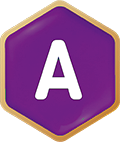
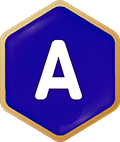
Add files via upload

diff --git a/poll.html b/poll.html
@@ -141,16 +141,18 @@
   display: flex;
   flex-direction: column;
   align-items: flex-start;
+  text-align: center;
   padding: 10px;
   background: url("round-images/bg-a-round1.jpg") no-repeat center center;
-  background-size: cover;   /* scale to fill */
-  border-radius: 12px;      /* optional rounded corners */
+  background-size: cover;
+  border-radius: 12px;
 }
 
 .poll-right {
   display: flex;
   flex-direction: column;
   align-items: flex-end;
+  text-align: center;
   padding: 10px;
   background: url("round-images/bg-b-round1.jpg") no-repeat center center;
   background-size: cover;
@@ -167,26 +169,28 @@
   margin-top: 8px;
   font-size: 1.1rem;
   font-weight: bold;
+  width: 100%;
+  text-align: center;
 }
 
 .question-text {
   font-size: 1rem;
   font-weight: bold;
-  padding: 5px;
+  padding: 0px;
   align:left;
 }
 
 .poll-center {
 flex: 1;  
-  display: flex;
-  flex-direction: column;
-  justify-content: space-between;
+  display: block;
+  flex-direction: row;
+  justify-content: center;
   padding: 0px;
 }
 
 .question-area {
-	display: flex;
-  text-align: left;
+	display: block;
+  text-align: center;
   align-self: center;
 }
 
@@ -250,8 +254,8 @@ font-size: 0.5rem;
 }
 
 #qrCode{
-	height: 40px;
-	padding: 5px;
+	height: 60px;
+	padding: 1px;
 }
 
   </style>

diff --git a/poll.js b/poll.js
@@ -137,12 +137,22 @@ async function startRound(roundName, color) {
   document.getElementById("barB").style.width = "0%";
 
   // Switch button images depending on color
-  //document.getElementById("a-button-img").src = `a-${color}.png`;
-  //document.getElementById("b-button-img").src = `b-${color}.png`;
+  document.getElementById("a-button-img").src = `a-${color}.png`;
+  document.getElementById("b-button-img").src = `b-${color}.png`;
 
   // Change background images based on round
   document.querySelector(".poll-left").style.backgroundImage = `url('round-images/bg-a-${roundName}.jpg')`;
   document.querySelector(".poll-right").style.backgroundImage = `url('round-images/bg-b-${roundName}.jpg')`;
+
+	if (color === 'green') {
+		document.getElementById('ResultCard').style.backgroundColor = '#003803';
+	}
+	
+	if (color === "green") {
+  document.getElementById('barA').style.background = 'linear-gradient(to right, #056e00, #0cba04)';
+} else {
+  document.getElementById('barA').style.background = 'linear-gradient(to right, #060e80, #000dbf)';
+}
 
   // Question/answer arrays
   const questions = {
@@ -153,7 +163,7 @@ async function startRound(roundName, color) {
   };
 
   const answers = {
-    round1: { A: "Lactose \n Intolerance", B: "CMPA" },
+    round1: { A: "Lactose \n Intolerance", B: "Cow's Milk Protein Allergy (CMPA)" },
     round2: { A: "Continue with the current milk", B: "Go to the pediatrician to assess the right milk formula" },
     round3: { A: "Digestive discomforts such as excessive crying, gassiness and hard stools ARE NOT COMMON", B: "Digestive discomforts such as excessive crying, gassiness and hard stools ARE COMMON" },
     round4: { A: "Seek the help of the Pediatrician", B: "Continue the regular milk knowing that the transition is normal" }
@@ -205,8 +215,10 @@ try {
 });
 
 document.getElementById("homeButton").addEventListener("click", () => {
+	document.getElementById('ResultCard').style.backgroundColor = 'rgba(1, 16, 41, 1)';
   document.getElementById("SelectCard").classList.remove("hidden");
   document.getElementById("ResultCard").classList.add("hidden");
+  
 });
 
 

diff --git a/index.html b/index.html
@@ -184,7 +184,7 @@
 	<button id="resetButton">Reset</button>
 
 
-	<p style="font-size: 10px;" id="debugMessage">v061126-2135</p>
+	<p style="font-size: 10px;" id="debugMessage">v061726-1303</p>
 	
   <!-- External JS -->
   <script src="script.js"></script>